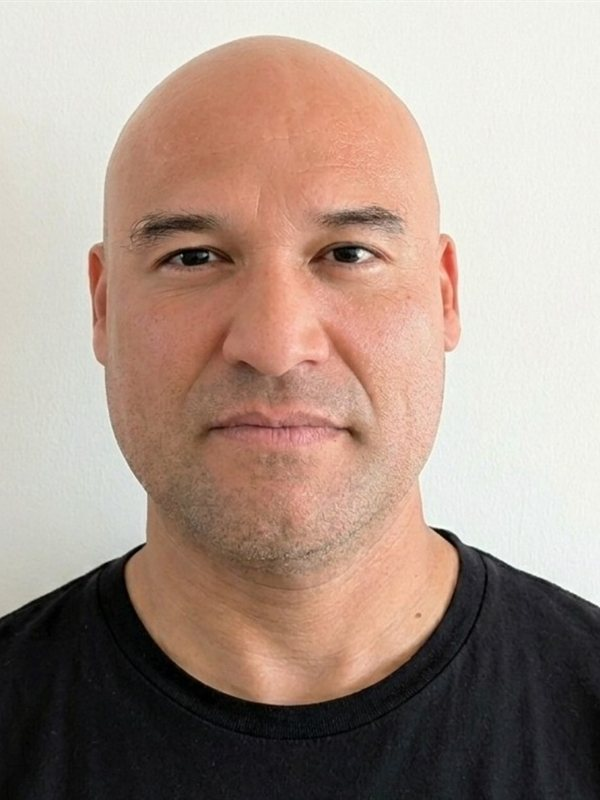
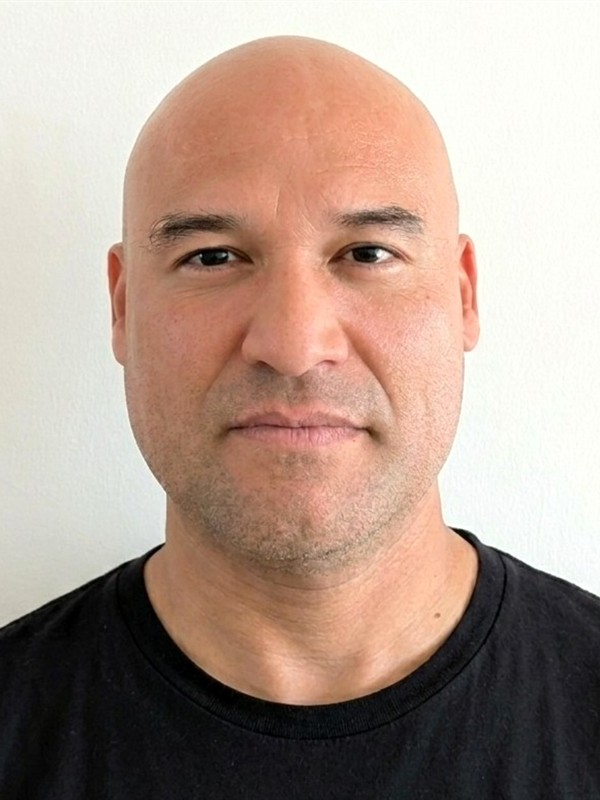
Radiology team: better photos and added to the home team section
- Re-cropped Jenifer Arciga and Luis Camacho photos with matching framing
  (eyes at the same height, faces centered), light contrast/brightness
  correction, JPEG quality 90 (portrait 600x800 and avatar 480x480)
- Home: "Your English-speaking medical team" with Doctors (Dr. Kevin
  Gonzalez Adame, Dra. Myriam Aisse Palacios Alarcon) and X-ray (Lic.
  Jenifer Arciga Acosta, Luis Antonio Camacho Villegas) + links to About
  and the X-ray service
- Luis labelled "X-ray specialist" (title still pending, D10)

diff --git a/index.html b/index.html
@@ -154,7 +154,7 @@
 </div></section><section class="sec" id="insurance" aria-labelledby="ins-title"><div class="wrap"><div style="display:grid;grid-template-columns:1.3fr .7fr;gap:24px;align-items:center;background:#fff;border:1px solid #e8e2d6;border-radius:20px;padding:28px" class="ins-band"><div><span style="display:inline-block;font-size:13px;letter-spacing:.1em;text-transform:uppercase;color:var(--gold);font-weight:700">United States &amp; Canada</span><h2 id="ins-title" style="margin:6px 0 10px">International Health &amp; Travel Insurance Accepted &mdash; Subject to Verification</h2><p style="margin:0;color:var(--mute)">We accept international health and travel insurance from the United States and Canada, subject to policy verification and coverage confirmation. Contact our team to verify your eligibility and payment arrangements before receiving medical services.</p></div><div style="display:flex;flex-direction:column;gap:10px"><a class="btn btn--call" href="https://wa.me/5216242261023?text=Hi%21%20I%20would%20like%20to%20verify%20my%20international%20insurance." target="_blank" rel="noopener">Verify My Insurance</a><a href="/insurance-billing-cabo/" style="text-align:center;font-weight:600">How verification works &rarr;</a></div></div><style>@media(max-width:760px){.ins-band{grid-template-columns:1fr!important}}</style></div></section>
 
 <section class="sec alt"><div class="wrap"><h2>How to see an English-speaking doctor in Cabo</h2><p class="sub">Three simple steps.</p><div class="steps"><div class="step"><b class="n">1</b><h3>Message or call us</h3><p>Tell us what you need and where you are staying.</p></div><div class="step"><b class="n">2</b><h3>We confirm price and time</h3><p>Clear USD pricing before you commit. Most arrivals in Cabo San Lucas.</p></div><div class="step"><b class="n">3</b><h3>A doctor or nurse comes to you</h3><p>At your hotel, villa or yacht, or visit our downtown clinic. Pay by card or cash.</p></div></div><p class="note">A licensed professional performs a brief health screening before every service. Not for emergencies &mdash; call 911.</p></div></section>
-<section class="sec"><div class="wrap"><h2>Your English-speaking doctors and nurses</h2><p class="sub">English-speaking doctors and nurses.</p><div style="display:grid;grid-template-columns:repeat(auto-fit,minmax(260px,1fr));gap:18px"><div class="card" style="display:flex;gap:14px;align-items:center"><img src="/images/dra-myriam.webp" alt="Dra. Myriam Aisse Palacios Alarc&oacute;n" width="72" height="72" loading="lazy" style="width:72px;height:72px;border-radius:50%;object-fit:cover;flex:none"><div><h3>Dra. Myriam Aisse Palacios Alarc&oacute;n</h3><p style="margin:2px 0 0">M&eacute;dico General &middot; c&eacute;dula profesional 11664989</p></div></div><div class="card" style="display:flex;gap:14px;align-items:center"><img src="/images/dr-kevin-adame.jpg" alt="Dr. Kevin Gonz&aacute;lez Adame" width="72" height="72" loading="lazy" style="width:72px;height:72px;border-radius:50%;object-fit:cover;flex:none"><div><h3>Dr. Kevin Gonz&aacute;lez Adame</h3><p style="margin:2px 0 0">M&eacute;dico Cirujano y Partero &middot; c&eacute;dula profesional 14796516</p></div></div></div><p style="margin-top:14px"><a href="/about/">About our clinic</a></p></div></section>
+<section class="sec"><div class="wrap"><h2>Your English-speaking medical team</h2><p class="sub">Licensed professionals. You can check any c&eacute;dula profesional in Mexico&rsquo;s public registry.</p><style>.tm-grid{display:grid;grid-template-columns:repeat(auto-fit,minmax(260px,1fr));gap:16px}.tm-h{font-size:14px;letter-spacing:.08em;text-transform:uppercase;color:var(--gold);margin:22px 0 10px}.card.tm{display:flex;gap:14px;align-items:center}.card.tm img{width:72px;height:72px;border-radius:50%;object-fit:cover;flex:none;border:2px solid #efe6d6}.card.tm h3{margin:0}.card.tm p{margin:2px 0 0}</style><p class="tm-h">Doctors</p><div class="tm-grid"><div class="card tm"><img src="/images/dr-kevin-adame.jpg" alt="Dr. Kevin Gonz&aacute;lez Adame" width="72" height="72" loading="lazy"><div><h3>Dr. Kevin Gonz&aacute;lez Adame</h3><p>M&eacute;dico Cirujano y Partero &middot; c&eacute;dula 14796516</p><span class="avail" style="margin-top:6px">Video consultations</span></div></div><div class="card tm"><img src="/images/dra-myriam.webp" alt="Dra. Myriam Aisse Palacios Alarc&oacute;n" width="72" height="72" loading="lazy"><div><h3>Dra. Myriam Aisse Palacios Alarc&oacute;n</h3><p>M&eacute;dico General &middot; c&eacute;dula 11664989</p></div></div></div><p class="tm-h">X-ray</p><div class="tm-grid"><div class="card tm"><img src="/images/jenifer-arciga.jpg" alt="Lic. Jenifer Alexandra Arciga Acosta" width="72" height="72" loading="lazy"><div><h3>Lic. Jenifer Arciga Acosta</h3><p>Lic. en Radiolog&iacute;a e Imagenolog&iacute;a &middot; c&eacute;dula 13435891</p></div></div><div class="card tm"><img src="/images/luis-camacho.jpg" alt="Luis Antonio Camacho Villegas" width="72" height="72" loading="lazy"><div><h3>Luis Antonio Camacho Villegas</h3><p>X-ray &middot; c&eacute;dula 4359616</p></div></div></div><p style="margin-top:16px;display:flex;flex-wrap:wrap;gap:16px"><a href="/about/#team">Meet the whole team</a><a href="/radiology-x-ray-cabo-san-lucas/">X-ray at our clinic or your hotel</a></p></div></section>
 <section class="sec alt"><div class="wrap"><h2>Where we go</h2><p class="sub">Areas we cover. We confirm the arrival time with you when you book.</p><div class="cards" style="grid-template-columns:repeat(auto-fit,minmax(210px,1fr))"><div class="card" style="padding:0;overflow:hidden"><img src="/images/cabo/marina.webp" alt="Aerial view of the marina in Cabo San Lucas" loading="lazy" width="640" height="360" style="display:block;width:100%;aspect-ratio:4/3;object-fit:cover"><div style="padding:14px 16px 16px"><h3>Downtown, Marina &amp; M&eacute;dano</h3><p>Cabo San Lucas</p></div></div><div class="card" style="padding:0;overflow:hidden"><img src="/images/cabo/arch-sunset.webp" alt="Sunset over the rock arch at Land's End in Cabo San Lucas" loading="lazy" width="640" height="427" style="display:block;width:100%;aspect-ratio:4/3;object-fit:cover"><div style="padding:14px 16px 16px"><h3>Pedregal &amp; Quivira</h3><p>Pacific side of Cabo San Lucas</p></div></div><div class="card" style="padding:0;overflow:hidden"><img src="/images/cabo/corridor.webp" alt="Beachfront resort in the Tourist Corridor between Cabo San Lucas and San Jos&eacute; del Cabo" loading="lazy" width="640" height="480" style="display:block;width:100%;aspect-ratio:4/3;object-fit:cover"><div style="padding:14px 16px 16px"><h3>Tourist Corridor</h3><p>Palmilla, Cabo del Sol, Chileno Bay</p></div></div><div class="card" style="padding:0;overflow:hidden"><img src="/images/cabo/san-jose.webp" alt="Aerial view of the coast near San Jos&eacute; del Cabo" loading="lazy" width="640" height="425" style="display:block;width:100%;aspect-ratio:4/3;object-fit:cover"><div style="padding:14px 16px 16px"><h3>San Jos&eacute; del Cabo &amp; SJD</h3><p>Downtown, Hotel Zone and Los Cabos Airport</p></div></div></div><div class="htl" id="hotels"><style>
 .htl{margin-top:40px}
 .htl h3.htl-t{color:var(--navy);font-size:clamp(22px,3vw,28px);line-height:1.2;margin:0 0 8px}

diff --git a/radiology-x-ray-cabo-san-lucas/index.html b/radiology-x-ray-cabo-san-lucas/index.html
@@ -61,7 +61,7 @@
 <p class="meta" style="margin-top:6px">Clinic 9 AM &ndash; 5 PM daily &middot; Portable X-ray by appointment &middot; Prices in USD</p>
 </div><div class="rad-team" aria-label="Our radiology team">
 <figure><img src="/images/jenifer-arciga-portrait.jpg" alt="Jenifer Alexandra Arciga Acosta, radiology and imaging professional" width="600" height="800" loading="eager"><figcaption><strong>Lic. Jenifer Arciga</strong>Radiolog&iacute;a e Imagenolog&iacute;a</figcaption></figure>
-<figure><img src="/images/luis-camacho-portrait.jpg" alt="Luis Antonio Camacho Villegas, radiology technologist" width="600" height="800" loading="eager"><figcaption><strong>Luis Camacho</strong>Imaging collaborator</figcaption></figure>
+<figure><img src="/images/luis-camacho-portrait.jpg" alt="Luis Antonio Camacho Villegas, X-ray specialist" width="600" height="800" loading="eager"><figcaption><strong>Luis Camacho</strong>X-ray specialist</figcaption></figure>
 </div></div></section>
 
 <section class="sec"><div class="wrap">
@@ -98,7 +98,7 @@
 <p class="sub">Licensed radiology professionals. Every c&eacute;dula can be checked in Mexico&rsquo;s <a href="https://www.cedulaprofesional.sep.gob.mx/" target="_blank" rel="noopener">Registro Nacional de Profesionistas</a>.</p>
 <div class="people">
 <div class="person"><img src="/images/jenifer-arciga.jpg" alt="Jenifer Alexandra Arciga Acosta" width="96" height="96" loading="lazy"><div><h3>Lic. Jenifer Alexandra Arciga Acosta</h3><p>Licenciada en Radiolog&iacute;a e Imagenolog&iacute;a</p><p>C&eacute;dula profesional 13435891</p></div></div>
-<div class="person"><img src="/images/luis-camacho.jpg" alt="Luis Antonio Camacho Villegas" width="96" height="96" loading="lazy"><div><h3>Luis Antonio Camacho Villegas</h3><p>Imaging collaborator</p><p>C&eacute;dula profesional 4359616</p></div></div>
+<div class="person"><img src="/images/luis-camacho.jpg" alt="Luis Antonio Camacho Villegas" width="96" height="96" loading="lazy"><div><h3>Luis Antonio Camacho Villegas</h3><p>X-ray specialist</p><p>C&eacute;dula profesional 4359616</p></div></div>
 </div>
 <p style="margin-top:16px">Results are reviewed with you by our physicians, <a href="/about/#team">Dr. Kevin Gonz&aacute;lez Adame and Dra. Myriam Aisse Palacios Alarc&oacute;n</a>.</p>
 </div></section>
